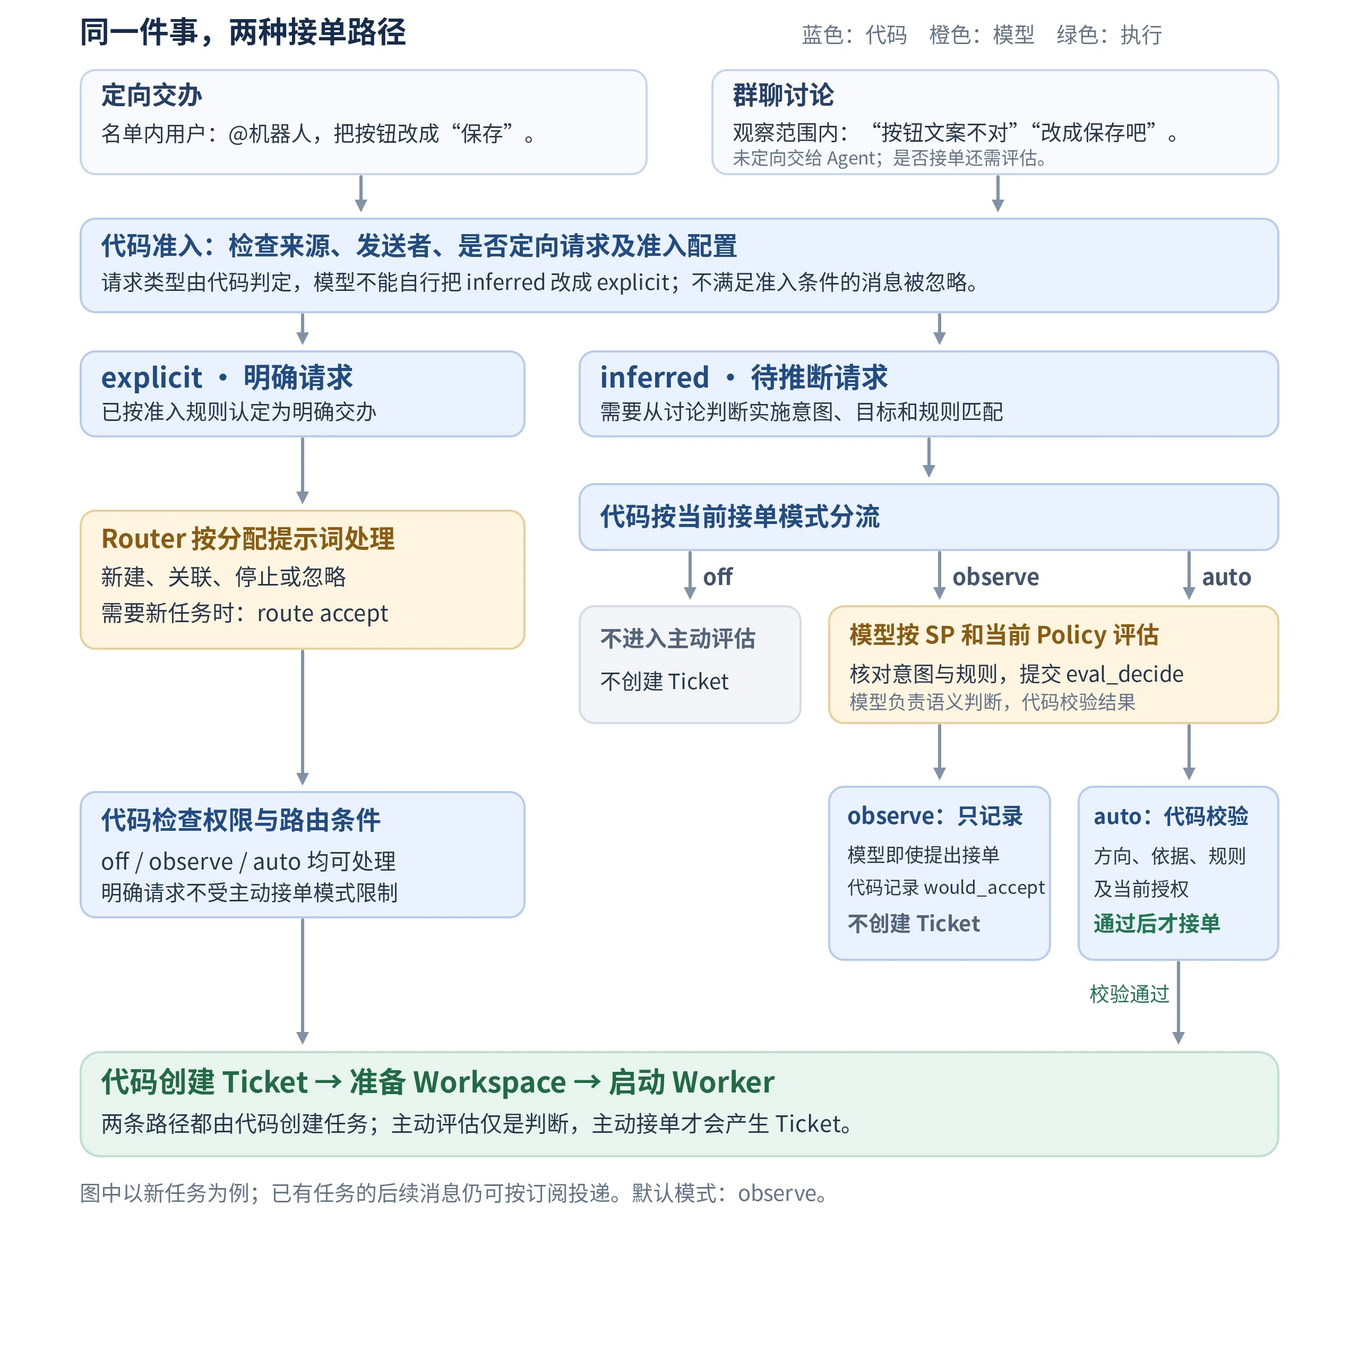
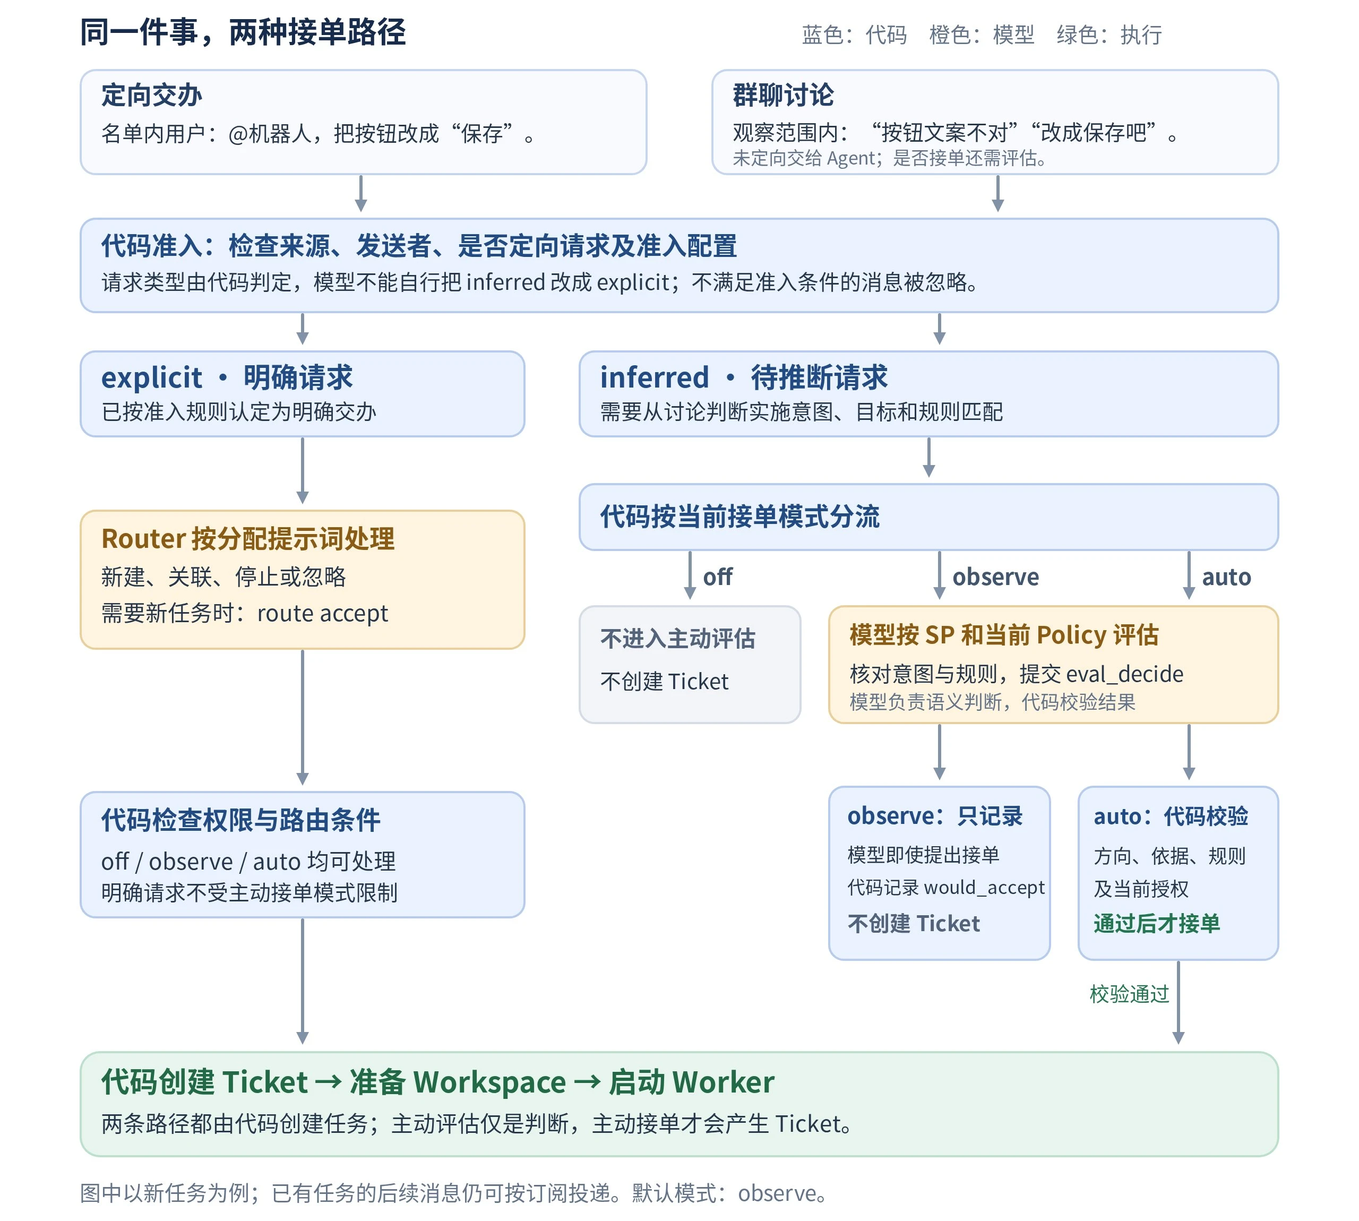
Trim unused canvas below nine article diagrams

Changed region(s): [[0.0312, 0.0, 0.9688, 0.9878]]

diff --git a/posts/dsh-super-agent/index.html b/posts/dsh-super-agent/index.html
@@ -36,13 +36,13 @@
 <p>一个 Thread 可以向多个 Ticket 投递，每个 Worker 独立判断：任务内的消息继续处理，无关消息无需动作，超出范围的请求退回 Router。人类追问只要仍有 Worker 负责，Router 就不会重复分配；用户要求停止时例外。</p>
 <h5 id="router-prompts">提示词与工具</h5>
 <p>我们先看 Router 的系统提示词的大致内容。</p>
-<figure><a class="diagram" href="assets/figure-40.webp" style="aspect-ratio:2160/486"><img style="position:absolute;width:118.519%;max-width:none;top:0.000%;left:-9.259%" width="2560" height="2560" loading="lazy" src="assets/figure-40.webp" alt="Router 系统提示词的组织顺序"></a><figcaption>图 8　Router 系统提示词的组织顺序　<a href="assets/figure-40.webp">查看大图</a></figcaption></figure>
+<figure><a class="diagram" href="assets/figure-40.webp"><img width="2180" height="492" loading="lazy" src="assets/figure-40.webp" alt="Router 系统提示词的组织顺序"></a><figcaption>图 8　Router 系统提示词的组织顺序　<a href="assets/figure-40.webp">查看大图</a></figcaption></figure>
 <p>Router的提示词明确说明了系统整体的分工，重点说明了订阅与分流的规则，并且针对不同的接单策略定义了不同的工单创建策略。此外Router还携带了下列工具，用于感受环境数据，完善整个决策链路。下表省略 orchestrator_ 前缀，例如 eval_decide 的完整名称是 orchestrator_eval_decide。</p>
 <table><thead><tr><th>工具</th><th>模型用它做什么</th></tr></thead><tbody><tr><td><code>read</code></td><td>查询消息、Thread、Ticket、Report 和配置。</td></tr><tr><td><code>route</code></td><td>提交 accept、attach、stop 或 ignore，处理明确请求；也可直接忽略明显无关的待推断候选。</td></tr><tr><td><code>eval</code></td><td>加载待推断候选的讨论窗口和相关任务，供当前模型判断。</td></tr><tr><td><code>eval_read</code></td><td>继续读取该评估需要的原消息、更多讨论、图片或相关文件。</td></tr><tr><td><code>eval_decide</code></td><td>提交主动评估结论、逐条规则判断和实施依据，由代码校验；不是另调用一个评估模型。</td></tr><tr><td><code>reply</code></td><td>向用户转交结果、回答或需要人决策的问题。</td></tr></tbody></table>
 <p>此外还有任务状态查询、重试、补充事实、重新送评、取消订阅和配置维护工具，以及受限的技能、文件和命令工具。它们服务于路由与管理；具体实现仍交给 Worker。</p>
 <h6 id="context">上下文组织</h6>
 <p>我们先看 Router 如何组织上下文。飞书、GitHub 的候选消息、订阅投递通知，以及多个 Worker 的关键反馈，都进入同一个主 Session；Router 的工具调用、返回和部分状态变化也会追加。每次模型请求带上当前 SP、工具定义和保留的历史，用 Thread、Trigger、Ticket 标识区分来源与任务。下图展示历史如何累积，以及压缩后如何继续使用。</p>
-<figure><a class="diagram" href="assets/figure-46.webp"><img width="2560" height="2560" loading="lazy" src="assets/figure-46.webp" alt="主 Session 的上下文与压缩"></a><figcaption>图 9　主 Session 的上下文与压缩　<a href="assets/figure-46.webp">查看大图</a></figcaption></figure>
+<figure><a class="diagram" href="assets/figure-46.webp"><img width="2560" height="2088" loading="lazy" src="assets/figure-46.webp" alt="主 Session 的上下文与压缩"></a><figcaption>图 9　主 Session 的上下文与压缩　<a href="assets/figure-46.webp">查看大图</a></figcaption></figure>
 <p>主 Session 保留的是调度过程，不会合并 Worker 的完整对话。普通进度 Report 若未回答用户问题，不会转发；Report 摘要超过 600 字符会截断，并附上完整结果的读取入口。</p>
 <p><b>历史变长后，DSH 按上下文容量触发压缩。</b>每个执行步骤开始前，系统检查占用，不按消息条数或固定时间压缩。当前依赖版本的默认阈值如下，实际值随模型窗口、输出预留和配置变化：</p>
 <pre><code>压缩阈值 = min(上下文窗口 × 80%,<br>               上下文窗口 − 预留输出 tokens − 65,536)</code></pre>
@@ -52,7 +52,7 @@
 <p>裁剪工具结果、修改 SP 或工具定义、切换模型，都可能缩短可复用的前缀。同一个 Session 不保证缓存命中，实际情况应查看 prompt_cache_hit_tokens 和 prompt_cache_miss_tokens。</p>
 <h6 id="routing-example">工具调用</h6>
 <p>接着看 Router 如何使用这些上下文完成投递。话题 A 中，用户先请求修复 CSV 导出，再补充复现条件；评估启动前入队的消息可组成一个批次。Router 接单创建 T17，代码启动 Worker 并建立订阅；Worker 随后提交并绑定 PR #42。用户在未被订阅的话题 B 发来 M3“PR #42 仍有问题，请继续修复”，代码通过 PR Thread 的订阅关系找到 T17，将任务摘要加入候选卡。我们以下图为例。</p>
-<figure><a class="diagram" href="assets/figure-56.webp"><img width="2560" height="2560" loading="lazy" src="assets/figure-56.webp" alt="一次跨话题投递中的模型与工具调用"></a><figcaption>图 10　一次跨话题投递中的模型与工具调用　<a href="assets/figure-56.webp">查看大图</a></figcaption></figure>
+<figure><a class="diagram" href="assets/figure-56.webp"><img width="2560" height="2172" loading="lazy" src="assets/figure-56.webp" alt="一次跨话题投递中的模型与工具调用"></a><figcaption>图 10　一次跨话题投递中的模型与工具调用　<a href="assets/figure-56.webp">查看大图</a></figcaption></figure>
 <p>M3 进入主 Session 后，模型先用 orchestrator_read 补读 T17，再用 orchestrator_route 关联消息。每次工具调用和返回都会追加到历史，供下一次请求使用；任务信息已经足够时，可以跳过补读。下面只保留关键调用：</p>
 <pre><code>user：M3 原文、话题 B、引用得到的 T17 摘要<br>assistant → orchestrator_read：{&quot;resource&quot;:&quot;ticket/T17&quot;}<br>tool → 返回 T17 的任务范围、关联 Thread 和近期 Report<br>assistant → orchestrator_route：<br>{&quot;decisions&quot;:[{&quot;kind&quot;:&quot;attach&quot;,&quot;trigger_id&quot;:&quot;M3&quot;,&quot;ticket_id&quot;:&quot;T17&quot;}]}<br>tool → 返回关联结果和 Ticket 摘要；模型确认成功后结束本轮</code></pre>
 <p>关联成功后，代码将 M3 投递给原 Worker，并让 T17 订阅话题 B。随后 B 中的 M4“补充复现附件”直接按订阅投递，Router 收到 follow_up，不再重复关联。对于待推断请求，模型则使用 eval、按需 eval_read 和 eval_decide，相关调用和返回也按同样方式追加。</p>
@@ -60,7 +60,7 @@
 <p>我们先区分 explicit 和 inferred，再看接单模式如何生效。两者由代码根据来源、发送者、是否定向请求和准入配置判定，模型不能自行更改请求类型。</p>
 <ul><li><b>explicit（明确请求）</b>：按准入规则认定为明确交办，例如名单内用户 @机器人分配任务。Router 按权限和分配规则处理。</li><li><b>inferred（待推断请求）</b>：需要结合讨论判断是否应接单。讨论可以已经很明确，但尚未按准入规则认定为明确交办。</li></ul>
 <p>判断讨论中是否有可接的工作，叫“主动评估”；评估通过后创建 Ticket，叫“主动接单”。两条路径都由代码创建 Ticket。我们以下图为例，看同一项文案修改如何处理。</p>
-<figure><a class="diagram" href="assets/figure-64.webp"><img width="2560" height="2560" loading="lazy" src="assets/figure-64.webp" alt="明确请求、待推断请求与接单模式"></a><figcaption>图 11　明确请求、待推断请求与接单模式　<a href="assets/figure-64.webp">查看大图</a></figcaption></figure>
+<figure><a class="diagram" href="assets/figure-64.webp"><img width="2560" height="2300" loading="lazy" src="assets/figure-64.webp" alt="明确请求、待推断请求与接单模式"></a><figcaption>图 11　明确请求、待推断请求与接单模式　<a href="assets/figure-64.webp">查看大图</a></figcaption></figure>
 <p><b>提示词指导模型判断。</b>每次请求的 SP 都带上当前模式和启用规则。explicit 走分配工具 route；inferred 由模型结合上下文检查实施意图、目标和规则，通过 eval_decide 提交判断与依据。语义是否匹配仍依靠模型，代码只校验提交结果和执行条件。</p>
 <p><b>代码控制是否接单。</b>off 不让待推断请求进入主动评估；observe 允许评估，但即使模型提出接单，也只记录 would_accept，不创建 Ticket；auto 才允许在方向、依据、规则和授权检查通过后创建。引擎还会再次检查，模型误用 route accept 也不能绕过限制。默认模式为 observe。</p>
 <p>模式变化后，代码更新 Policy 版本，并让进行中的评估重新判断。从 auto 切换出去，还会通知相关 Worker 只收尾当前工作或报告放弃；收尾由 Worker 理解通知执行，恢复已结束任务则由代码重新校验授权。模式不是系统暂停开关：明确请求仍可处理，已有任务的订阅投递也不因此全部停止。</p>
@@ -68,7 +68,7 @@
 <p>Router 把消息分配给 Ticket 后，由 Worker 完成具体工作。每个 Ticket 保留一个逻辑 Worker、独立 Session 和固定工作目录；后续消息、重试和新的 Assignment 继续使用这份上下文。我们先看 Worker 收到什么，再看执行过程如何运行和扩展。</p>
 <h4 id="worker-scope">提示词与工具</h4>
 <p>我们先看 Worker 如何根据系统提示词判断任务范围、执行工作并报告结果。</p>
-<figure><a class="diagram" href="assets/figure-72.webp" style="aspect-ratio:2160/486"><img style="position:absolute;width:118.519%;max-width:none;top:0.000%;left:-9.259%" width="2560" height="2560" loading="lazy" src="assets/figure-72.webp" alt="Worker 系统提示词的组织顺序"></a><figcaption>图 12　Worker 系统提示词的组织顺序　<a href="assets/figure-72.webp">查看大图</a></figcaption></figure>
+<figure><a class="diagram" href="assets/figure-72.webp"><img width="2181" height="492" loading="lazy" src="assets/figure-72.webp" alt="Worker 系统提示词的组织顺序"></a><figcaption>图 12　Worker 系统提示词的组织顺序　<a href="assets/figure-72.webp">查看大图</a></figcaption></figure>
 <p>Worker 的系统提示词（SP）第一段同样是明确团队职责，告知Worker和Router的配合方式。然后告知Worker可以通过订阅去获取上下文，以及将越界请求退回 Router。与Router不一样的是，Worker后面明确了自己的执行范围、权限和工作方式。要求 Worker 阅读上下文、判断任务范围、选择方案并完成实施和验证，最后通过 Report 反馈。任务内的追问继续处理，超出范围的请求交回 Router，需要人决策时提出具体问题。主动接单的任务会额外加入范围限制，并随任务说明传入匹配的规则；用于全局主动评估的 Policy 则只提供给 Router。Worker 通过以下工具执行这些要求。工具分为工作工具和任务工具。前者用于读写文件、搜索、运行命令、后台作业、技能和子 Agent；后者把动作绑定到当前 Ticket。下表统一省略 orchestrator_ 前缀。</p>
 <table><thead><tr><th>任务工具</th><th>用途</th></tr></thead><tbody><tr><td><code>read</code></td><td>补读当前任务、相关消息、Thread 和 Report。</td></tr><tr><td><code>ack</code></td><td>确认已接下当前任务内的一条人类请求。</td></tr><tr><td><code>thread_follow</code></td><td>关注相关 Thread，仅作为上下文。</td></tr><tr><td><code>thread_unrelated</code></td><td>取消误关联 Thread；不能随意移除任务自身的 Thread。</td></tr><tr><td><code>trigger_handback</code></td><td>将超范围或属于其他任务的消息交回 Router。</td></tr><tr><td><code>report</code></td><td>反馈 progress、ready、blocked、failed 或 dropped；human_action 字段用于提出待人决策的问题。</td></tr></tbody></table>
 <p>Worker 的任务工具由代码绑定 Ticket ID，读取范围也受检查。需要人决策时，通过 report 的 human_action 交给 Router 转达；预设不提供直接提问的交互工具。普通进度留在任务内；明确回答用户问题的进度、关键结果和待决策问题会向 Router 反馈。</p>
@@ -83,24 +83,24 @@
 <figure><a class="diagram" href="assets/figure-84.webp"><img width="2560" height="2560" loading="lazy" src="assets/figure-84.webp" alt="Assignment、异步执行与恢复"></a><figcaption>图 13　Assignment、异步执行与恢复　<a href="assets/figure-84.webp">查看大图</a></figcaption></figure>
 <h4 id="executor">执行与扩展</h4>
 <p>Executor 是任务调度与 Agent 执行框架之间的适配边界。调度核心 Engine 通过统一接口启动执行、投递消息和停止工作，具体的 Executor 实现将这些操作转换为后端调用，并回传执行状态与结果。DSH、Codex、Claude Code 等框架都可以作为适配目标，各自负责模型与工具的 Agent Loop；接入时需要实现相同的执行约定。</p>
-<figure><a class="diagram" href="assets/figure-87.webp"><img width="2560" height="2560" loading="lazy" src="assets/figure-87.webp" alt="Executor 与执行后端的适配关系"></a><figcaption>图 14　Executor 与执行后端的适配关系　<a href="assets/figure-87.webp">查看大图</a></figcaption></figure>
+<figure><a class="diagram" href="assets/figure-87.webp"><img width="2560" height="1709" loading="lazy" src="assets/figure-87.webp" alt="Executor 与执行后端的适配关系"></a><figcaption>图 14　Executor 与执行后端的适配关系　<a href="assets/figure-87.webp">查看大图</a></figcaption></figure>
 <p>适配围绕三个接口展开：start 为待执行的 Assignment 安排启动，创建或复用所属 Ticket 的 Worker Session 和 workspace，装配任务说明、提示词及工具；deliver 将后续输入投递到对应 Session，分别回报投递成功、失败和实际读取状态；stop 在 Engine 结束相应 Ticket 或 Assignment 后，停止当前执行并清理关联的后台任务。启动和投递采用排队执行、回调报告的方式，不阻塞调度。适配器还需维护 Ticket 与 Session、workspace 的对应关系，配合完成消息去重、重试和中断恢复，让同一任务继续原有工作。</p>
 <p>反馈也需要统一：Worker 通过 Report 报告进度、结果和待人决策的问题，Executor 回报运行状态及异常；Engine 据此更新任务状态，并将待决策问题记录为 Attention，由 Router 转达。模型结束一轮输出不等于任务完成，适配器需要区分后台仍在执行、暂时空闲和执行失败等情况，Ticket 是否结束则由 Engine 按规则判断。这样，更换执行框架时，调度逻辑和任务连续性仍能保持一致。</p>
 <h4 id="environment">云端与执行环境</h4>
 <p>执行框架可以替换，执行环境也可以按任务选择。按照原文的设计，Super Agent 的 Agent Loop 在云端运行，Session 和任务状态由独立存储保存，再按需连接个人电脑、云端临时环境和常驻开发机。执行端通过轻量进程运行命令、返回结果，代码、依赖和本地配置继续留在原有环境中。参见<a href="https://threadnavigator.com/thread/2116857257245987236/">设计原文第 5 节（转载）</a>。</p>
-<figure><a class="diagram" href="assets/figure-92.webp" style="aspect-ratio:2070/992"><img style="position:absolute;width:123.671%;max-width:none;top:0.000%;left:-11.836%" width="2560" height="2560" loading="lazy" src="assets/figure-92.webp" alt="云端 Agent 如何连接不同执行环境"></a><figcaption>图 15　云端 Agent 如何连接不同执行环境　<a href="assets/figure-92.webp">查看大图</a></figcaption></figure>
+<figure><a class="diagram" href="assets/figure-92.webp"><img width="2084" height="997" loading="lazy" src="assets/figure-92.webp" alt="云端 Agent 如何连接不同执行环境"></a><figcaption>图 15　云端 Agent 如何连接不同执行环境　<a href="assets/figure-92.webp">查看大图</a></figcaption></figure>
 <p>个人电脑适合处理本地文件和未提交的修改；云端临时环境适合按需创建、完成后回收的隔离任务；常驻开发机适合依赖既有仓库、工具链和内网服务的持续开发。个人电脑离线时，云端 Agent 仍可接收消息和处理其他任务，依赖这台电脑的操作等待设备重新上线。</p>
 <p>Worker 的 Session 保存在云端，workspace 则位于所选执行环境中。同一 Ticket 持续关联这份工作目录，后续消息和重试沿用已有代码进度。例如，Worker 可以连接常驻开发机，在该机上通过 git worktree 从目标仓库创建任务目录，再完成修改、测试和提交；不需要先把整套开发环境搬到云端。使用临时环境时，需在回收前保存代码与产物，保证任务后续仍可继续。</p>
 <h4 id="recovery">持续运行与恢复</h4>
 <p>Worker 持续运行，需要控制并发，也要保留中断后可继续的状态。并发上限限制的是正在执行的 Worker，不是 Ticket 总数；等待用户的任务可以释放名额，让其他任务继续。我们以下图为例。</p>
-<figure><a class="diagram" href="assets/figure-97.webp"><img width="2560" height="2560" loading="lazy" src="assets/figure-97.webp" alt="并发调度、持续运行与中断恢复"></a><figcaption>图 16　并发调度、持续运行与中断恢复　<a href="assets/figure-97.webp">查看大图</a></figcaption></figure>
+<figure><a class="diagram" href="assets/figure-97.webp"><img width="2560" height="1787" loading="lazy" src="assets/figure-97.webp" alt="并发调度、持续运行与中断恢复"></a><figcaption>图 16　并发调度、持续运行与中断恢复　<a href="assets/figure-97.webp">查看大图</a></figcaption></figure>
 <p><b>并发调度。</b>任务从准备工作目录、启动到执行期间占用名额；正常执行中的后台作业也继续占用。交接给用户时释放名额，停止子 Agent；供用户验收的服务可以保留，但不占名额，也不因服务退出自动唤醒 Worker。人类续问和状态请求优先于新任务，并可使用额外一个名额；CI 等普通事件等待常规名额。每轮结束后的后台工作窗口为 30 分钟，到期停止 Shell 作业并报告等待，子 Agent 可以继续。</p>
 <p><b>失败处理。</b>启动、投递和反馈先持久化，再执行。消息投递失败会退避重试；暂时的模型或网络故障先自动重试三次，仍失败则保留现场，等待人补充信息或重试。工作目录准备失败不会自动重试，后续的人类消息或显式重试可以再次触发。</p>
 <p><b>中断恢复。</b>进程重启后，Session、workspace、订阅和未读输入仍保留。被中断且需要继续的执行会结束旧 Assignment、创建新 Assignment，在原任务中恢复；等待或受阻的任务通常保持原状，除非之后已有新输入。Worker 先核对代码和外部操作结果，再继续工作，避免重复提交或重复操作。具体规则见<a href="https://github.com/deepseek-ai/dsh-superagent-prototype/blob/6337fc823ce20251c8de8085948165c81aaa701e/docs/003-execution.md">执行与恢复</a>。</p>
 <p><a href="https://threadnavigator.com/thread/2116857257245987236/">设计原文</a>还提出独立的 Watchdog，定期检查系统故障和任务是否真正推进，识别进程仍在运行却反复空转的情况。这是系统外的巡检设计，与上述原型内的重试和恢复机制分开理解。</p>
 <h3 id="channel">Channel</h3>
 <p>任务执行后，还需要把结果送回用户，并让用户的回答回到原任务。我们以飞书中的“整理发布说明”为例：Source 将请求转成 Trigger 并归入 Thread，Router 请求接单，Engine 创建 Ticket 和 Assignment、建立订阅，再交给 Worker 执行。</p>
-<figure><a class="diagram" href="assets/figure-104.webp"><img width="2560" height="2560" loading="lazy" src="assets/figure-104.webp" alt="从飞书请求到人工决策与结果交付"></a><figcaption>图 17　从飞书请求到人工决策与结果交付　<a href="assets/figure-104.webp">查看大图</a></figcaption></figure>
+<figure><a class="diagram" href="assets/figure-104.webp"><img width="2560" height="1964" loading="lazy" src="assets/figure-104.webp" alt="从飞书请求到人工决策与结果交付"></a><figcaption>图 17　从飞书请求到人工决策与结果交付　<a href="assets/figure-104.webp">查看大图</a></figcaption></figure>
 <p><b>需要决策时。</b>Worker 通过 Report 的 human_action 提出“是否包含内部变更”，Engine 记录 Attention，Router 经 Channel 转达。问题优先发回引发这次提问的人类消息所在会话，否则回到任务起始会话。Router 转交具体问题，不代替用户作技术决定。</p>
 <p><b>用户回答后。</b>“仅公开内容”成为新的 Trigger，按 Thread 订阅直达原 Ticket。Worker 再确认范围，沿用 Session 和 workspace 继续整理，普通答复不会新建 Assignment。若用户提出另一项工作，Worker 交回 Router 重新分流；同一消息仍有其他 Worker 负责时，不重复接单。</p>
 <p><b>结果就绪后。</b>Worker 提交 ready Report，Router 将结果摘要和产物入口发回任务对应的 Channel。这个例子没有 PR，Engine 可结束 Ticket；代码任务则可能先交付 PR 供评审，再等待相关 PR 合并或关闭。结果通知与最终关闭通知分别处理，避免重复发送。</p>
